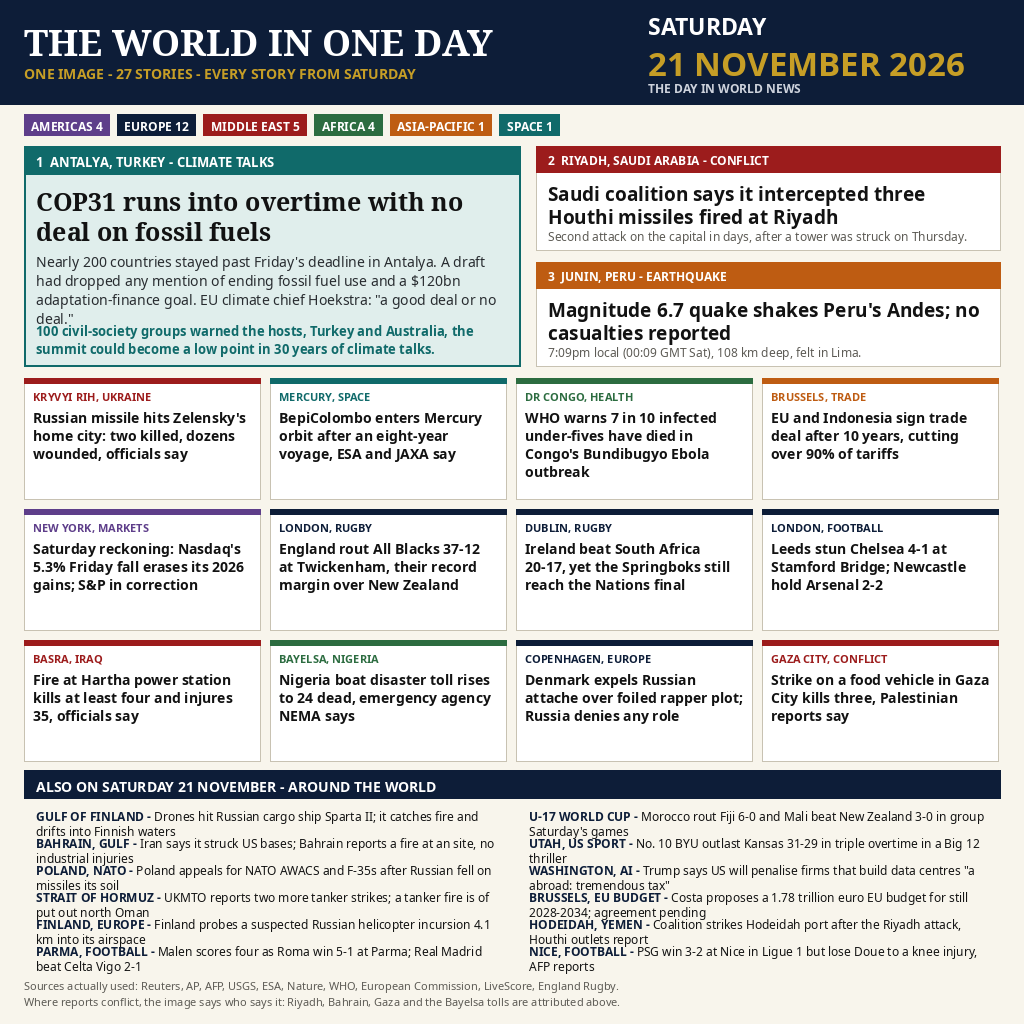
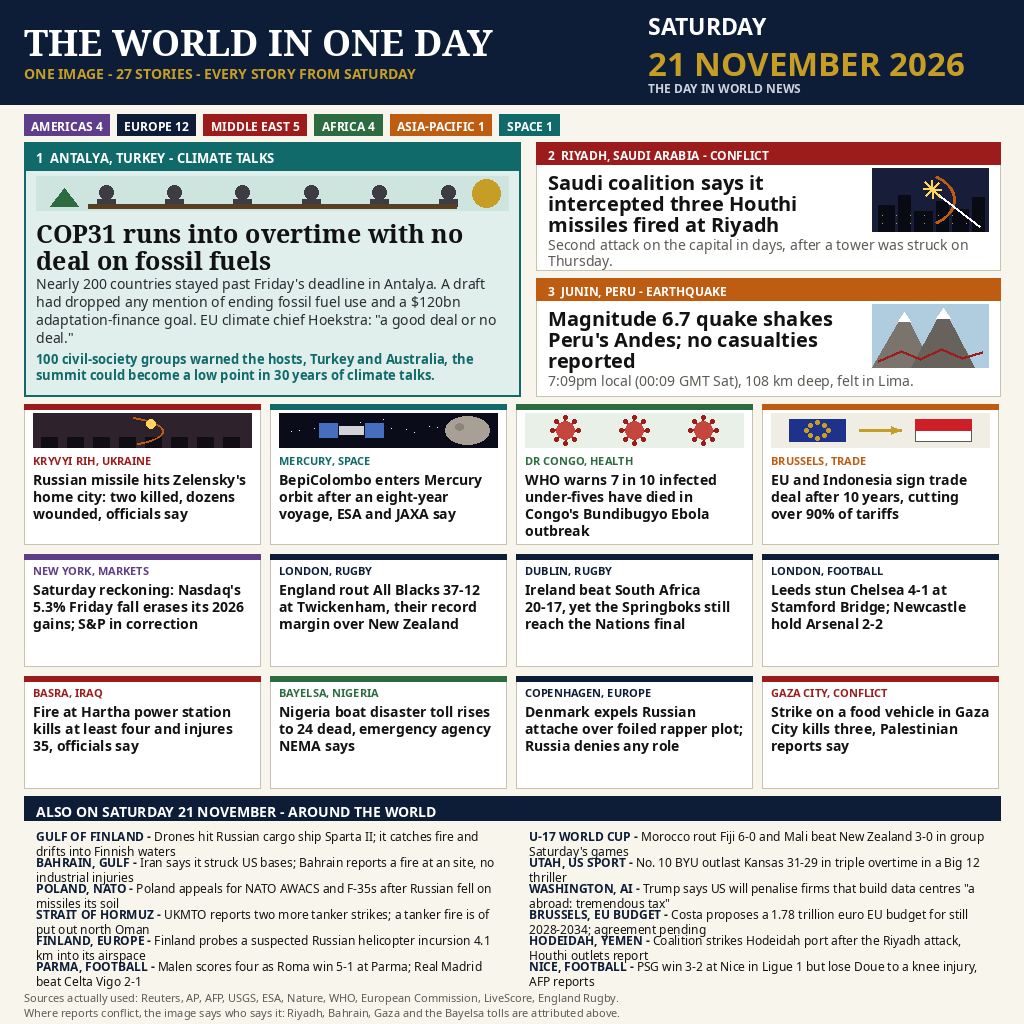
Revision 2: illustrated leads and first card row (LESSONS N5/N6), same 27 stories

diff --git a/render.py b/render.py
@@ -4,10 +4,14 @@ Runs ONLY on this build machine (Pillow is not available in the grading
 sandbox). It draws entry.png, a one-page front page summing up Saturday
 21 November 2026. main.py never imports this file; it copies the PNG.
 
-Design rule for this slug (LESSONS N3): readability beats density.
-27 stories, every one fully readable: 3 leads with summaries, 12 cards
-with full headlines, 12 short 'also' lines. No world map: the canvas
-goes to text instead. Date is one big block in the masthead.
+Revision 2 design (LESSONS N3 + N5 + N6): readability beats density,
+and the big stories carry illustrations drawn by this session's own
+code. 27 stories, every one fully readable: 3 illustrated leads with
+summaries, 12 headline cards (the first row illustrated), 12 short
+'also' lines. Illustrations are paid for by reallocating canvas
+(spare panel space, tighter line heights), never by shrinking text
+below its floor: lead headlines 20-25 px, lead summaries 14 px, card
+headlines 14 px. Date is one big block in the masthead.
 """
 import os
 
@@ -26,6 +30,7 @@ GREEN = (44, 108, 64)
 ORANGE = (190, 92, 18)
 PURPLE = (94, 62, 138)
 WHITE = (255, 255, 255)
+SKY = (176, 205, 224)
 
 SERIF_B = "/usr/share/fonts/truetype/noto/NotoSerif-Bold.ttf"
 SANS_B = "/usr/share/fonts/truetype/noto/NotoSans-Bold.ttf"
@@ -69,6 +74,117 @@ def chip(d, x, y, text, fill, size=11):
     return x + w + 8
 
 
+# ---------- scenes, drawn by this session's own code ----------
+def scene_cop31(d, x, y, w, h):
+    """Climate talks: sun over a long conference table of delegates."""
+    d.rectangle([x, y, x + w, y + h], fill=(206, 228, 222))
+    d.ellipse([x + w - 36, y + 3, x + w - 8, y + 31], fill=GOLD)
+    d.polygon([(x + 14, y + h - 4), (x + 28, y + h - 22),
+               (x + 42, y + h - 4)], fill=GREEN)
+    for i in range(6):
+        hx = x + 70 + i * (w - 130) / 5
+        d.ellipse([hx - 7, y + h - 25, hx + 7, y + h - 11],
+                  fill=(60, 60, 66))
+        d.rectangle([hx - 9, y + h - 11, hx + 9, y + h - 4],
+                    fill=(60, 60, 66))
+    d.rectangle([x + 52, y + h - 6, x + w - 52, y + h - 2],
+                fill=(90, 62, 34))
+
+
+def scene_riyadh(d, x, y, w, h):
+    """Night sky over a skyline: missile trail met by an interceptor."""
+    d.rectangle([x, y, x + w, y + h], fill=(24, 30, 58))
+    for bx, bw, bh in [(6, 16, 26), (26, 12, 36), (42, 18, 20),
+                       (64, 12, 30), (80, 16, 22), (100, 12, 34)]:
+        d.rectangle([x + bx, y + h - bh, x + bx + bw, y + h],
+                    fill=(8, 10, 20))
+    for wx in range(10, int(w) - 8, 14):
+        d.point((x + wx, y + h - 8), fill=GOLD)
+        d.point((x + wx, y + h - 16), fill=GOLD)
+    cx, cy = x + w * 0.52, y + h * 0.34
+    d.arc([x + 8, y + 4, x + w * 0.72, y + h * 0.95], 300, 60,
+          fill=ORANGE, width=3)
+    d.line([x + w - 8, y + h - 4, cx + 4, cy + 4], fill=WHITE, width=2)
+    for dx, dy in [(0, -9), (0, 9), (-9, 0), (9, 0), (-7, -7), (7, 7),
+                   (-7, 7), (7, -7)]:
+        d.line([cx, cy, cx + dx, cy + dy], fill=(255, 214, 90),
+               width=2)
+
+
+def scene_peru(d, x, y, w, h):
+    """Andes ridges with snow caps and a red fault crack."""
+    d.rectangle([x, y, x + w, y + h], fill=SKY)
+    d.polygon([(x, y + h), (x + w * 0.28, y + 8), (x + w * 0.52,
+               y + h)], fill=(122, 116, 108))
+    d.polygon([(x + w * 0.34, y + h), (x + w * 0.62, y + 4),
+               (x + w * 0.88, y + h)], fill=(104, 98, 92))
+    d.polygon([(x + w * 0.62, y + 4), (x + w * 0.68, y + 14),
+               (x + w * 0.56, y + 14)], fill=WHITE)
+    d.polygon([(x + w * 0.28, y + 8), (x + w * 0.33, y + 17),
+               (x + w * 0.23, y + 17)], fill=WHITE)
+    pts = [(x + 6, y + h - 6), (x + w * 0.25, y + h - 16),
+           (x + w * 0.42, y + h - 8), (x + w * 0.60, y + h - 18),
+           (x + w * 0.78, y + h - 9), (x + w - 6, y + h - 15)]
+    d.line(pts, fill=RED, width=3)
+
+
+def strip_missile(d, x, y, w, h):
+    d.rectangle([x, y, x + w, y + h], fill=(46, 34, 44))
+    for bx in range(8, int(w) - 10, 26):
+        bh = 10 + (bx * 7) % 14
+        d.rectangle([x + bx, y + h - bh, x + bx + 16, y + h],
+                    fill=(16, 14, 20))
+    d.arc([x + 10, y + 2, x + w * 0.6, y + h], 300, 55, fill=ORANGE,
+          width=2)
+    d.ellipse([x + w * 0.52, y + 6, x + w * 0.52 + 9, y + 15],
+              fill=(255, 214, 90))
+
+
+def strip_space(d, x, y, w, h):
+    d.rectangle([x, y, x + w, y + h], fill=(10, 12, 26))
+    for sx in range(12, int(w) - 60, 23):
+        d.point((x + sx, y + 6 + (sx % 13)), fill=WHITE)
+        d.point((x + sx + 8, y + 20 - (sx % 9)), fill=WHITE)
+    d.ellipse([x + w - 52, y + 3, x + w - 8, y + h - 3],
+              fill=(168, 160, 148))
+    d.ellipse([x + w - 42, y + 10, x + w - 34, y + 17],
+              fill=(140, 132, 120))
+    d.rectangle([x + 60, y + 13, x + 84, y + 21], fill=(210, 210, 215))
+    d.rectangle([x + 40, y + 10, x + 58, y + 24], fill=(70, 110, 190))
+    d.rectangle([x + 86, y + 10, x + 104, y + 24], fill=(70, 110, 190))
+
+
+def strip_virus(d, x, y, w, h):
+    d.rectangle([x, y, x + w, y + h], fill=(232, 240, 232))
+    for cx in [x + 40, x + w // 2, x + w - 40]:
+        cy = y + h // 2
+        for ang in range(0, 360, 45):
+            import math
+            ex = cx + int(13 * math.cos(math.radians(ang)))
+            ey = cy + int(13 * math.sin(math.radians(ang)))
+            d.line([cx, cy, ex, ey], fill=RED, width=2)
+            d.ellipse([ex - 2, ey - 2, ex + 2, ey + 2], fill=RED)
+        d.ellipse([cx - 9, cy - 9, cx + 9, cy + 9], fill=(196, 70, 60))
+
+
+def strip_trade(d, x, y, w, h):
+    d.rectangle([x, y, x + w, y + h], fill=(240, 238, 228))
+    d.rectangle([x + 18, y + 6, x + 74, y + h - 6], fill=(30, 50, 140))
+    import math
+    for i in range(8):
+        ang = math.radians(i * 45)
+        sx = x + 46 + int(11 * math.cos(ang))
+        sy = y + h // 2 + int(8 * math.sin(ang))
+        d.ellipse([sx - 2, sy - 2, sx + 2, sy + 2], fill=GOLD)
+    d.rectangle([x + w - 74, y + 6, x + w - 18, y + h - 6], fill=WHITE,
+                outline=GREY)
+    d.rectangle([x + w - 74, y + 6, x + w - 18, y + h // 2],
+                fill=(206, 30, 40))
+    d.line([x + 88, y + h // 2, x + w - 88, y + h // 2], fill=GOLD,
+           width=3)
+    d.polygon([(x + w - 88, y + h // 2), (x + w - 98, y + h // 2 - 4),
+               (x + w - 98, y + h // 2 + 4)], fill=GOLD)
+
 img = Image.new("RGB", (W, H), PAPER)
 d = ImageDraw.Draw(img)
 
@@ -90,99 +206,113 @@ x = 24
 for name, col in regions:
     x = chip(d, x, 114, name, col, 12)
 
-# ---------------- lead 1: COP31 ----------------
-d.rectangle([24, 146, 520, 366], fill=(224, 238, 236),
+# ---------------- lead 1: COP31, illustrated ----------------
+d.rectangle([24, 142, 520, 396], fill=(224, 238, 236),
             outline=TEAL, width=2)
-d.rectangle([24, 146, 520, 174], fill=TEAL)
-d.text((36, 153), "1  ANTALYA, TURKEY - CLIMATE TALKS",
+d.rectangle([24, 142, 520, 170], fill=TEAL)
+d.text((36, 149), "1  ANTALYA, TURKEY - CLIMATE TALKS",
        font=F(SANS_B, 13), fill=WHITE)
-text_block(d, 36, 184, "COP31 runs into overtime with no deal "
-           "on fossil fuels", F(SERIF_B, 25), INK, 472, 30)
-text_block(d, 36, 252,
+scene_cop31(d, 36, 176, 472, 34)
+text_block(d, 36, 216, "COP31 runs into overtime with no deal "
+           "on fossil fuels", F(SERIF_B, 25), INK, 472, 27)
+text_block(d, 36, 274,
            "Nearly 200 countries stayed past Friday's deadline in "
            "Antalya. A draft had dropped any mention of ending fossil "
            "fuel use and a $120bn adaptation-finance goal. EU climate "
            "chief Hoekstra: \"a good deal or no deal.\"",
-           F(SANS, 14), (40, 44, 48), 472, 19)
-text_block(d, 36, 322,
+           F(SANS, 14), (40, 44, 48), 472, 18)
+text_block(d, 36, 350,
            "100 civil-society groups warned the hosts, Turkey and "
            "Australia, the summit could become a low point in 30 "
            "years of climate talks.",
-           F(SANS_B, 13), TEAL, 472, 18)
+           F(SANS_B, 13), TEAL, 472, 16)
 
-# ---------------- lead 2: Riyadh ----------------
-d.rectangle([536, 146, 1000, 250], fill=WHITE, outline=(200, 194, 178))
-d.rectangle([536, 146, 1000, 172], fill=RED)
-d.text((548, 152), "2  RIYADH, SAUDI ARABIA - CONFLICT",
+# ---------------- lead 2: Riyadh, illustrated ----------------
+d.rectangle([536, 142, 1000, 270], fill=WHITE, outline=(200, 194, 178))
+d.rectangle([536, 142, 1000, 164], fill=RED)
+d.text((548, 147), "2  RIYADH, SAUDI ARABIA - CONFLICT",
        font=F(SANS_B, 12), fill=WHITE)
-text_block(d, 548, 180, "Saudi coalition says it intercepted three "
-           "Houthi missiles fired at Riyadh", F(SANS_B, 19), INK, 440, 23)
-text_block(d, 548, 228, "Second attack on the capital in days, after a "
-           "tower was struck on Thursday.", F(SANS, 12), GREY, 440, 15)
+scene_riyadh(d, 872, 168, 116, 63)
+text_block(d, 548, 168, "Saudi coalition says it intercepted three "
+           "Houthi missiles fired at Riyadh", F(SANS_B, 20), INK,
+           316, 21)
+text_block(d, 548, 235, "Second attack on the capital in days, "
+           "after a tower was struck on Thursday.", F(SANS, 14),
+           GREY, 440, 16)
 
-# ---------------- lead 3: Peru ----------------
-d.rectangle([536, 262, 1000, 366], fill=WHITE, outline=(200, 194, 178))
-d.rectangle([536, 262, 1000, 288], fill=ORANGE)
-d.text((548, 268), "3  JUNIN, PERU - EARTHQUAKE",
+# ---------------- lead 3: Peru, illustrated ----------------
+d.rectangle([536, 278, 1000, 396], fill=WHITE, outline=(200, 194, 178))
+d.rectangle([536, 278, 1000, 300], fill=ORANGE)
+d.text((548, 283), "3  JUNIN, PERU - EARTHQUAKE",
        font=F(SANS_B, 12), fill=WHITE)
-text_block(d, 548, 296, "Magnitude 6.7 quake shakes Peru's Andes; "
-           "no casualties reported", F(SANS_B, 19), INK, 440, 23)
-text_block(d, 548, 344, "7:09pm local (00:09 GMT Sat), 108 km deep, "
-           "felt in Lima.", F(SANS, 12), GREY, 440, 15)
+scene_peru(d, 872, 304, 116, 63)
+text_block(d, 548, 304, "Magnitude 6.7 quake shakes Peru's Andes; "
+           "no casualties reported", F(SANS_B, 20), INK, 316, 21)
+text_block(d, 548, 371, "7:09pm local (00:09 GMT Sat), 108 km deep, "
+           "felt in Lima.", F(SANS, 14), GREY, 440, 16)
 
-# ---------------- 12 cards, full headlines ----------------
+# ---------------- 12 cards; first row illustrated ----------------
 CARDS = [
     ("KRYVYI RIH, UKRAINE", RED,
      "Russian missile hits Zelensky's home city: two killed, "
-     "dozens wounded, officials say"),
+     "dozens wounded, officials say", strip_missile),
     ("MERCURY, SPACE", TEAL,
      "BepiColombo enters Mercury orbit after an eight-year "
-     "voyage, ESA and JAXA say"),
+     "voyage, ESA and JAXA say", strip_space),
     ("DR CONGO, HEALTH", GREEN,
      "WHO warns 7 in 10 infected under-fives have died in "
-     "Congo's Bundibugyo Ebola outbreak"),
+     "Congo's Bundibugyo Ebola outbreak", strip_virus),
     ("BRUSSELS, TRADE", ORANGE,
      "EU and Indonesia sign trade deal after 10 years, cutting "
-     "over 90% of tariffs"),
+     "over 90% of tariffs", strip_trade),
     ("NEW YORK, MARKETS", PURPLE,
      "Saturday reckoning: Nasdaq's 5.3% Friday fall erases its "
-     "2026 gains; S&P in correction"),
+     "2026 gains; S&P in correction", None),
     ("LONDON, RUGBY", NAVY,
      "England rout All Blacks 37-12 at Twickenham, their "
-     "record margin over New Zealand"),
+     "record margin over New Zealand", None),
     ("DUBLIN, RUGBY", NAVY,
      "Ireland beat South Africa 20-17, yet the Springboks "
-     "still reach the Nations final"),
+     "still reach the Nations final", None),
     ("LONDON, FOOTBALL", NAVY,
      "Leeds stun Chelsea 4-1 at Stamford Bridge; Newcastle "
-     "hold Arsenal 2-2"),
+     "hold Arsenal 2-2", None),
     ("BASRA, IRAQ", RED,
      "Fire at Hartha power station kills at least four and "
-     "injures 35, officials say"),
+     "injures 35, officials say", None),
     ("BAYELSA, NIGERIA", GREEN,
      "Nigeria boat disaster toll rises to 24 dead, emergency "
-     "agency NEMA says"),
+     "agency NEMA says", None),
     ("COPENHAGEN, EUROPE", NAVY,
      "Denmark expels Russian attache over foiled rapper plot; "
-     "Russia denies any role"),
+     "Russia denies any role", None),
     ("GAZA CITY, CONFLICT", RED,
      "Strike on a food vehicle in Gaza City kills three, "
-     "Palestinian reports say"),
+     "Palestinian reports say", None),
 ]
-cx0, cy0, cw, chh, gap = 24, 378, 236, 121, 10
-for i, (place, col, head) in enumerate(CARDS):
-    cx = cx0 + (i % 4) * (cw + gap)
-    cy = cy0 + (i // 4) * (chh + gap)
-    d.rectangle([cx, cy, cx + cw, cy + chh], fill=WHITE,
-                outline=(200, 194, 178))
-    d.rectangle([cx, cy, cx + cw, cy + 5], fill=col)
-    d.text((cx + 9, cy + 11), place, font=F(SANS_B, 11), fill=col)
-    text_block(d, cx + 9, cy + 30, head, F(SANS_B, 14), INK,
-               cw - 18, 18, max_lines=5)
+ROW_H = [140, 112, 112]
+cy = 404
+for row in range(3):
+    chh = ROW_H[row]
+    for col_i in range(4):
+        i = row * 4 + col_i
+        place, col, head, strip = CARDS[i]
+        cx = 24 + col_i * (236 + 10)
+        d.rectangle([cx, cy, cx + 236, cy + chh], fill=WHITE,
+                    outline=(200, 194, 178))
+        d.rectangle([cx, cy, cx + 236, cy + 5], fill=col)
+        top = cy + 9
+        if strip is not None:
+            strip(d, cx + 9, cy + 9, 218, 34)
+            top = cy + 49
+        d.text((cx + 9, top), place, font=F(SANS_B, 11), fill=col)
+        text_block(d, cx + 9, top + 17, head, F(SANS_B, 14), INK,
+                   218, 17, max_lines=5)
+    cy += chh + 10
 
 # ---------------- also on Saturday ----------------
-d.rectangle([24, 770, 1000, 798], fill=NAVY)
-d.text((36, 777), "ALSO ON SATURDAY 21 NOVEMBER - AROUND THE WORLD",
+d.rectangle([24, 796, 1000, 820], fill=NAVY)
+d.text((36, 802), "ALSO ON SATURDAY 21 NOVEMBER - AROUND THE WORLD",
        font=F(SANS_B, 14), fill=WHITE)
 ALSO = [
     ("GULF OF FINLAND", "Drones hit Russian cargo ship Sparta II; "
@@ -210,10 +340,10 @@ ALSO = [
     ("NICE, FOOTBALL", "PSG win 3-2 at Nice in Ligue 1 but lose "
      "Doue to a knee injury, AFP reports"),
 ]
-ax0, ay0, aw = 24, 808, 483
+ax0, ay0, aw = 24, 828, 483
 for i, (place, head) in enumerate(ALSO):
     ax = ax0 + (i // 6) * (aw + 10)
-    ay = ay0 + (i % 6) * 27
+    ay = ay0 + (i % 6) * 26
     d.text((ax + 12, ay), place + " - ", font=F(SANS_B, 12), fill=NAVY)
     pw = d.textlength(place + " - ", font=F(SANS_B, 12))
     first_w = aw - 24 - pw
@@ -229,11 +359,11 @@ for i, (place, head) in enumerate(ALSO):
         d.text((ax + 12, ay + 15), rest, font=F(SANS, 12), fill=INK)
 
 # ---------------- footer ----------------
-d.text((24, 978),
+d.text((24, 990),
        "Sources actually used: Reuters, AP, AFP, USGS, ESA, Nature, "
        "WHO, European Commission, LiveScore, England Rugby.",
        font=F(SANS, 11), fill=GREY)
-d.text((24, 994),
+d.text((24, 1005),
        "Where reports conflict, the image says who says it: Riyadh, "
        "Bahrain, Gaza and the Bayelsa tolls are attributed above.",
        font=F(SANS, 11), fill=GREY)

diff --git a/README.md b/README.md
@@ -21,9 +21,14 @@ and 12 short world lines, under one big date block.
 
 ## Design notes
 
-Readability over density: fewer stories than a maximal front page,
-but every headline is set at 13 px or larger and the date at 33 px,
-so the page still reads when shrunk to about 300 px wide. No world
-map — the canvas goes to text instead.
+Readability over density, with the big stories illustrated: all
+three leads carry a scene drawn by the renderer's own code (COP31
+conference table under a sun, Riyadh interception trails over a
+night skyline, Andes ridges with a fault crack), and the first row
+of cards carries illustrated strips (missile, Mercury probe, virus,
+trade flags). Text stays dominant: lead headlines 20-25 px, card
+headlines 14 px, the date 33 px, so the page still reads when
+shrunk to about 300 px wide. Illustrations were paid for by
+reallocating canvas, never by shrinking text below those floors.
 
 License: MIT (see LICENSE).
